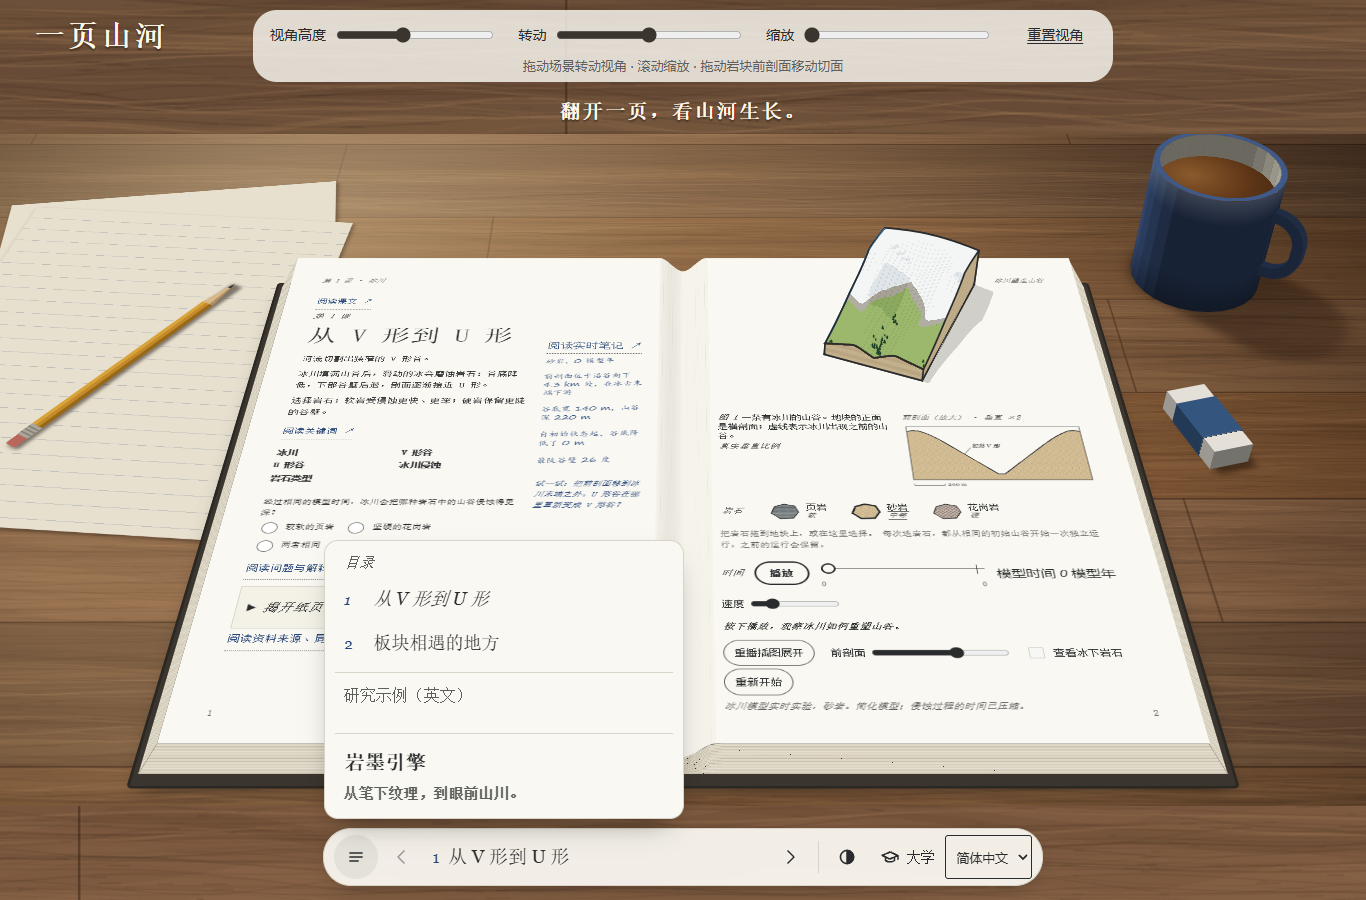
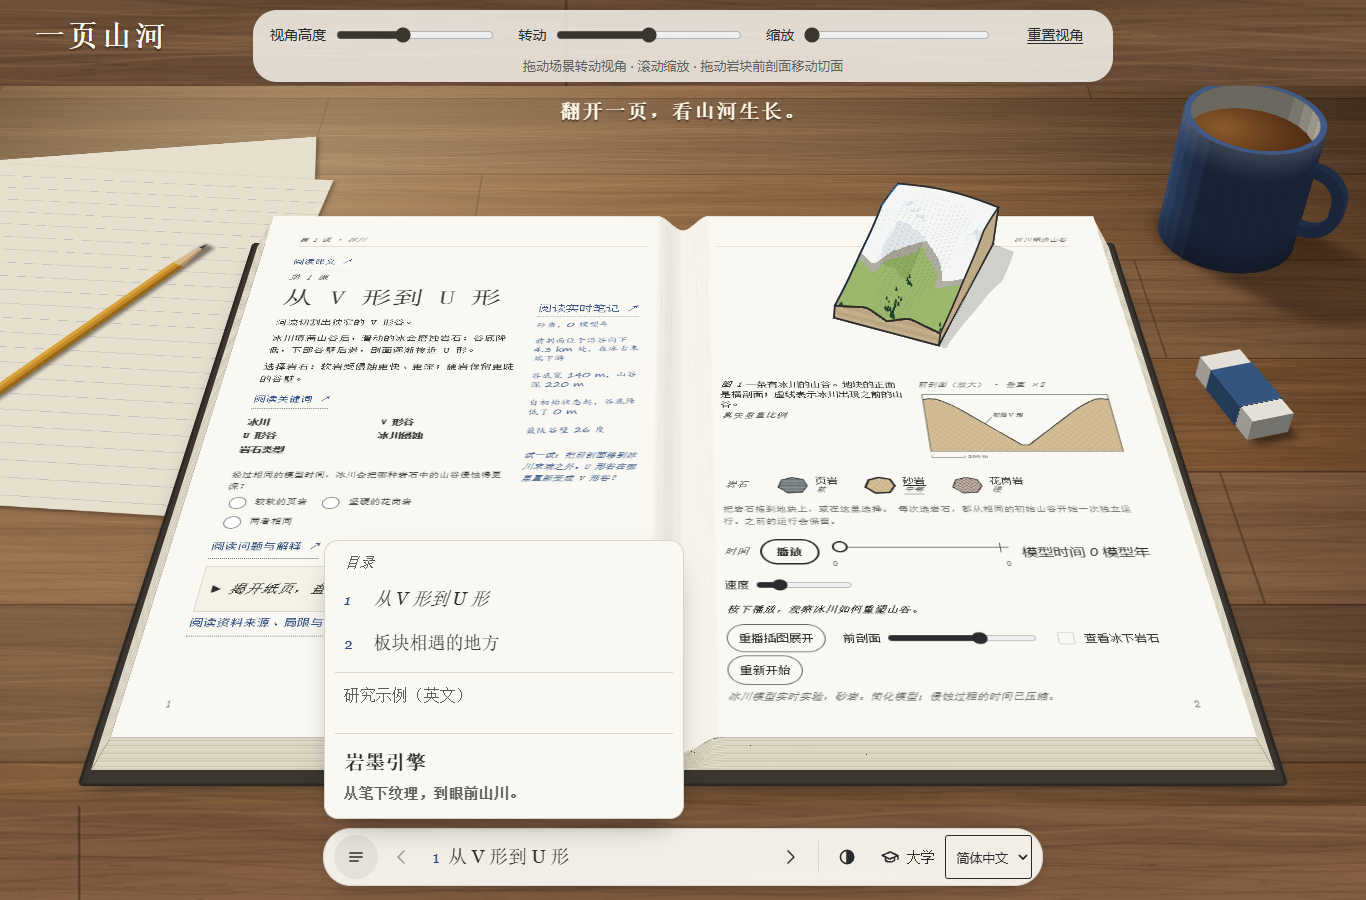
Preserve accepted desktop book size beneath localized slogan

Changed region(s): [[0.0, 0.0933, 1.0, 0.9022]]

diff --git a/e2e/bilingual-navigation.spec.ts b/e2e/bilingual-navigation.spec.ts
@@ -13,6 +13,43 @@ async function chooseLanguage(page: Page, locale: "en" | "zh-CN") {
   await expect(page.locator("html")).toHaveAttribute("lang", locale);
 }
 
+test("localized branding preserves the desktop book size and clears the camera controls", async ({
+  page,
+}) => {
+  for (const lesson of ["", "&spread=tectonics.plate-boundaries&page=spread"]) {
+    await page.goto(`/?glacier=cpu${lesson}`);
+    await ready(page);
+    for (const [width, height] of [
+      [1366, 768],
+      [1440, 900],
+    ]) {
+      await page.setViewportSize({ width, height });
+      for (const locale of ["en", "zh-CN"] as const) {
+        await chooseLanguage(page, locale);
+        await expect
+          .poll(
+            () =>
+              page.evaluate(() => {
+                const r = (s: string) => document.querySelector(s)!.getBoundingClientRect();
+                const controls = r(".gs-view-controls");
+                const slogan = r(".reader-brand-slogan");
+                const book = r(".gs-spread");
+                return (
+                  book.width > (innerWidth === 1366 ? 850 : 1050) &&
+                  slogan.top >= controls.bottom &&
+                  slogan.bottom <= book.top &&
+                  r(".reader-brand-name").right < controls.left &&
+                  document.documentElement.scrollHeight <= innerHeight
+                );
+              }),
+            { message: `${lesson || "glacier"}, ${width}×${height}, ${locale}` },
+          )
+          .toBe(true);
+      }
+    }
+  }
+});
+
 test("Chinese navigation retains both lessons and changing language keeps the mounted scene", async ({
   page,
 }) => {

diff --git a/uplift/book/src/scenes/glacial/view-controls.ts b/uplift/book/src/scenes/glacial/view-controls.ts
@@ -61,13 +61,13 @@ export function createViewControls(
   controls.append(reset, hint);
   host.prepend(controls);
 
-  // Reserve toolbar and book slogan height, including wrapping and language changes.
+  // The tilted desk's existing headroom holds the slogan without shrinking the book.
+  // Measure its height for the overlap; flat pages keep it in normal document flow.
   const slogan = host.querySelector<HTMLElement>(".reader-brand-slogan");
-  const measure = () =>
-    host.style.setProperty(
-      "--gs-controls-height",
-      `${controls.offsetHeight + (slogan?.offsetHeight ?? 0) + 24}px`,
-    );
+  const measure = () => {
+    host.style.setProperty("--gs-controls-height", `${controls.offsetHeight + 24}px`);
+    host.style.setProperty("--reader-slogan-height", `${slogan?.offsetHeight ?? 0}px`);
+  };
   const observer = new ResizeObserver(measure);
   observer.observe(controls);
   if (slogan) observer.observe(slogan);
@@ -158,6 +158,7 @@ export function createViewControls(
       surface.removeEventListener("wheel", wheel);
       controls.remove();
       host.style.removeProperty("--gs-controls-height");
+      host.style.removeProperty("--reader-slogan-height");
     },
   };
 }

diff --git a/uplift/book/src/reader/brand.css b/uplift/book/src/reader/brand.css
@@ -38,6 +38,12 @@
   letter-spacing: 0.025em;
   text-wrap: balance;
 }
+/* Use the tilted scene's empty headroom; preserve its established book scale. */
+.reader-brand-slogan:has(+ .gs-desk[data-stage-mode="tilted"]) {
+  position: relative;
+  z-index: 2;
+  margin-bottom: calc(-1 * var(--reader-slogan-height, 0px));
+}
 :lang(zh-CN) .reader-brand-name,
 :lang(zh-CN) .reader-brand-slogan {
   font-family: "Noto Serif CJK SC", "Source Han Serif SC", "Songti SC", "SimSun", serif;

diff --git a/docs/review/book-revision/brand/README.md b/docs/review/book-revision/brand/README.md
@@ -95,5 +95,16 @@ GitHub Pages publication. No new scientific or hardware validation or native-rea
 user study is claimed. Release and deployment results are recorded on GitHub.
 Surprise: the supplied prompt document was untracked in the original checkout;
 its original stays untouched and the edited versions live in this session worktree.
-Plan implication: brand copy belongs to the existing language system, and any
-future text between the camera controls and book must be included in stage sizing.
+Plan implication: brand copy belongs to the existing language system. The tilted
+scene's existing headroom accommodates the slogan; reserving another full row
+would shrink the book below its desktop acceptance size. Flat pages retain the
+slogan in normal document flow.
+
+### Desktop acceptance correction
+
+The first full CI run found that reserving the slogan's full height reduced the
+book below the PB1 width requirements. The corrected layout uses existing tilted
+scene headroom and preserves those thresholds. A bilingual regression now checks
+both lessons at 1366 × 768 and 1440 × 900, including title/toolbar separation,
+slogan placement, minimum book width and absence of page scrolling. The existing
+glacial and plate acceptance checks remain unchanged.

diff --git a/DECISIONS.md b/DECISIONS.md
@@ -3818,3 +3818,11 @@ neither prompt file appears in the history sent to GitHub. Existing public histo
 and release tags are unchanged. The release targets the merged, CI-checked commit;
 wait for Pages deployment and verify the public reader before declaring publication
 complete. Release-packet edits are minimal owner-authorized publication glue.
+
+### D-W6-6K publication correction — preserve desktop book scale
+
+Full PR CI exposed a PB1 regression: reserving a separate slogan row shrank the
+book below the accepted desktop widths. Use the tilted scene's existing headroom
+for the slogan, with its measured height offset from document flow; flat pages
+keep normal flow. Preserve the PB1 thresholds and add coverage for both languages
+and lessons at both acceptance viewports. No engine fit or scientific model changes.

diff --git a/docs/review/book-revision/release/README.md b/docs/review/book-revision/release/README.md
@@ -6,7 +6,8 @@ The owner requested publication of **一页山河 / Uplift** and **岩墨引擎 
 a bold upper-left name, slogan between the camera controls and book, and a quieter
 engine credit in Contents. All brand copy follows the existing language selector.
 Restrained ivory relief lettering matches the walnut desk; enhanced contrast and
-forced colours remove the text shadow. The stage reserves the slogan's height.
+forced colours remove the text shadow. The slogan uses existing headroom above
+the tilted book, preserving its accepted desktop size; flat pages keep normal flow.
 
 The owner explicitly authorized commit, push, release update and GitHub Pages
 publication. The reconstructed development-prompt documents stay local and are
